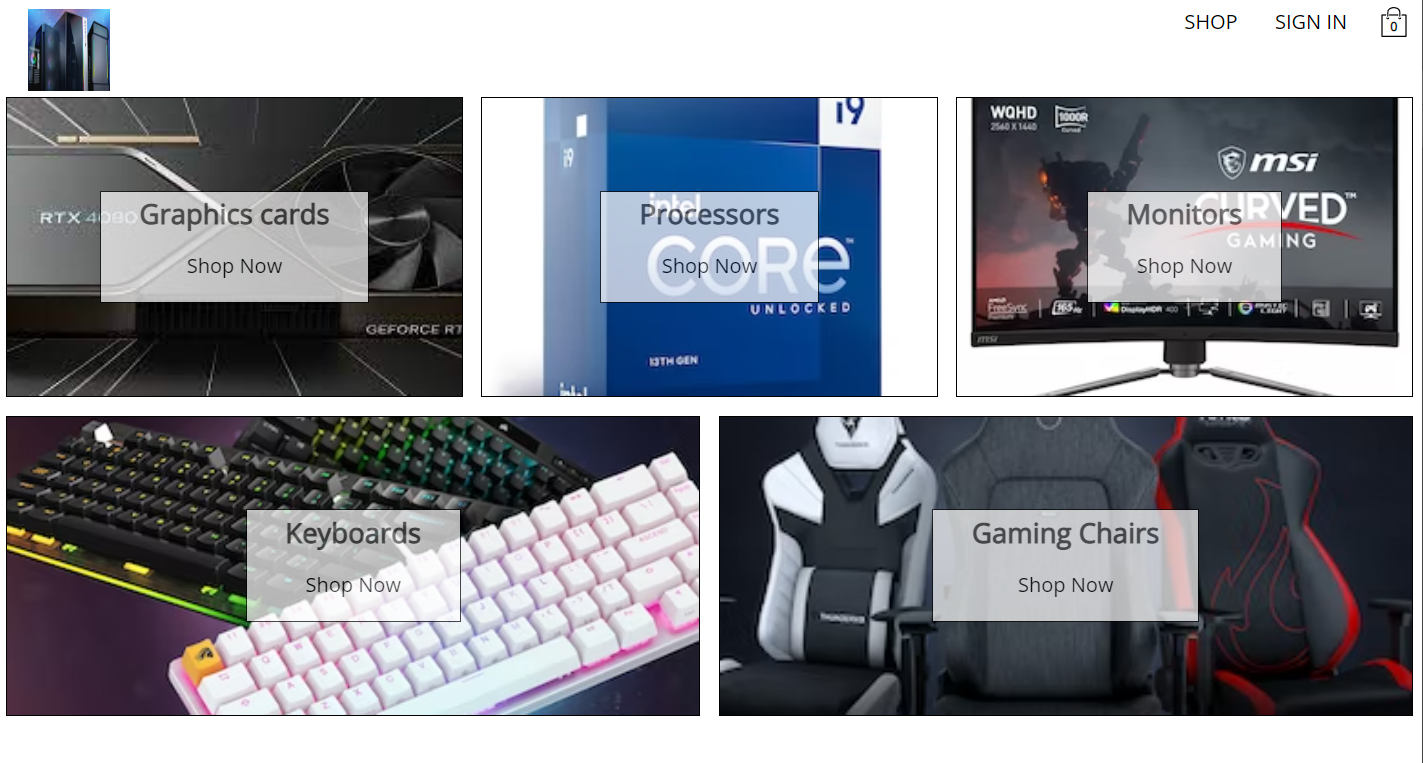
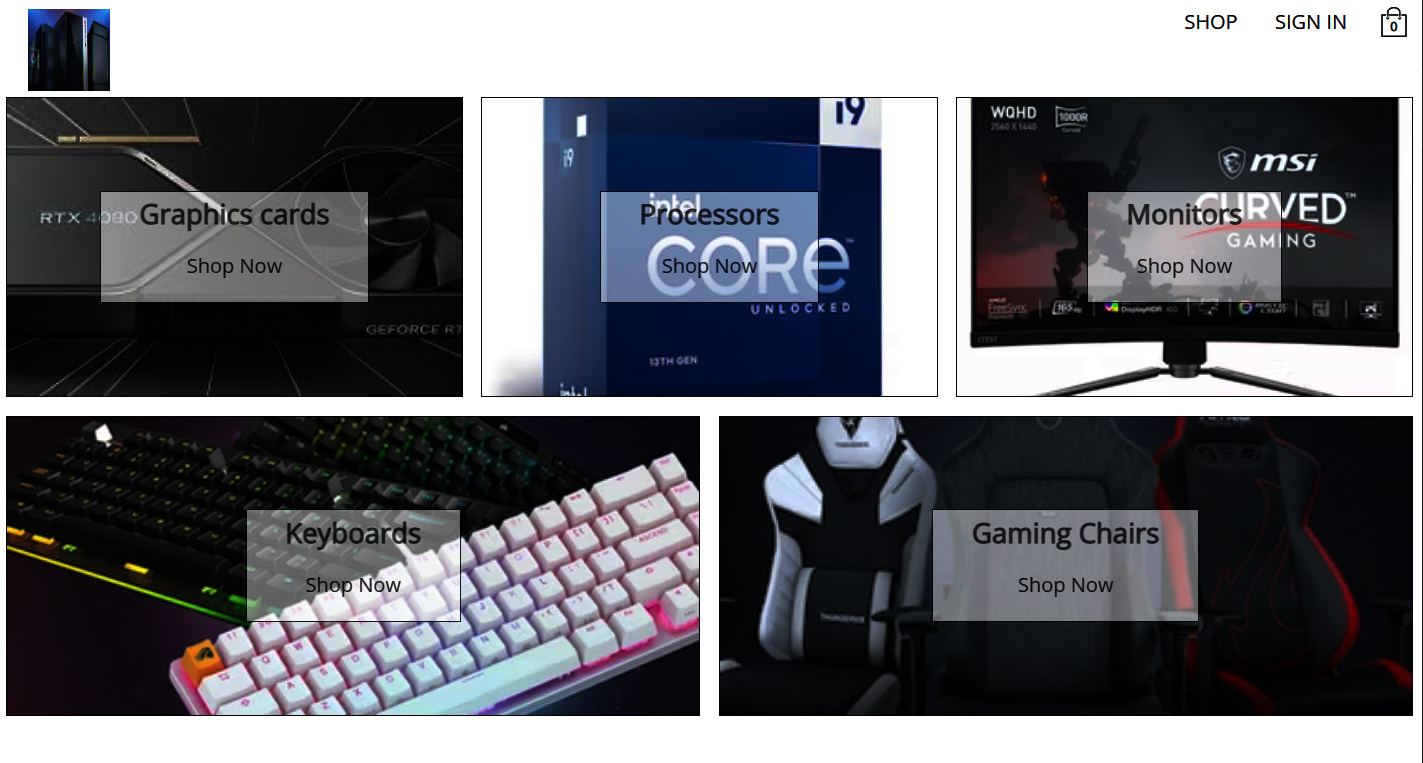
changesfinalv1

diff --git a/components/ProjectCardvtwo2.tsx b/components/ProjectCardvtwo2.tsx
@@ -8,12 +8,12 @@ const ProjectCardvtwo2 = () => {
                 src='/pcworld2.jpg' 
                 alt='/'
                 />
-                <div className='hidden group-hover:block absolute top-[33%] left-[77%] translate-x-[50%] translate-y-[50%]'>
+                <div className='hidden group-hover:block absolute bottom-[50%] right-[80%] translate-x-[50%] translate-y-[50%]'>
 
-                <h3 className='text-2xl text-white tracking-wider text-center'>Pc world</h3>
-                <p className='pb-4 pt-2 text-white text-center '>React Js</p>
+                <h3 className='text-3xl  tracking-wider text-center text-black'>Pc world</h3>
+                <p className='text-2xl  pb-4 pt-2 text-center text-white'>eCommerce website with register,sign in,check out and basket function. </p>
                 <Link href="https://pcworld.vercel.app/" target="blank">
-                    <p className='text-center py-3 rounded-lg bg-white text-gray-700 font-bold text-lg cursor-pointer'>More info</p>
+                    <p className='text-center py-3 rounded-lg bg-white text-gray-700 font-bold text-lg cursor-pointer text-black'>More info</p>
                 </Link>
                 </div>
             </div>

diff --git a/components/ProjectCardvtwo3.tsx b/components/ProjectCardvtwo3.tsx
@@ -8,12 +8,12 @@ const ProjectCardvtwo3 = () => {
                 src='/next2.jpg' 
                 alt='/'
                 />
-                <div className='hidden group-hover:block absolute top-[10%] left-[70%] translate-x-[50%] translate-y-[50%]'>
+                <div className='hidden group-hover:block absolute bottom-[50%] right-[60%] translate-x-[50%] translate-y-[50%]'>
 
-                <h3 className='text-2xl text-white tracking-wider text-center'>Netflix COMING SOON</h3>
-                <p className='pb-4 pt-2 text-white text-center '>Next Js</p>
+                <h3 className='text-4xl text-white tracking-wider text-center text-white'>Netflix COMING SOON</h3>
+                <p className='text-2xl pb-4 pt-2 text-white text-center text-white'>Next Js</p>
                 <Link href="" target="blank">
-                    <p className='text-center py-3 rounded-lg bg-white text-gray-700 font-bold text-lg cursor-pointer'>More info</p>
+                    <p className='text-center py-3 rounded-lg bg-white text-gray-700 font-bold text-lg cursor-pointer text-black'>More info</p>
                 </Link>
                 </div>
             </div>

diff --git a/components/ProjectCardvtwo.tsx b/components/ProjectCardvtwo.tsx
@@ -8,10 +8,10 @@ const ProjectCardvtwo = () => {
                 src='/bannerciti.jpg' 
                 alt='/'
                 />
-                <div className='hidden group-hover:block absolute top-[30%] left-[30%] translate-x-[50%] translate-y-[50%]'>
+                <div className='hidden group-hover:block absolute bottom-[50%] right-[47%] translate-x-[50%] translate-y-[50%]'>
 
-                <h3 className='text-2xl text-white tracking-wider text-center'>CitizenShare</h3>
-                <p className='pb-4 pt-2 text-white text-center '>REact Js</p>
+                <h3 className='text-4xl  tracking-wider text-center text-white'>CitizenShare</h3>
+                <p className='text-2xl pb-4 pt-2  text-center text-white'>A social media style picture sharing app,made for a computer game called star citizen,share,post,like,comment functionality,sign in with google!</p>
                 <Link href="https://citizenshare.vercel.app/" target="blank">
                     <p className='text-center py-3 rounded-lg bg-white text-gray-700 font-bold text-lg cursor-pointer'>More info</p>
                 </Link>

diff --git a/components/About.tsx b/components/About.tsx
@@ -37,7 +37,7 @@ export default function About({}:Props) {
             <div className="space-y-10 px-0 md:px-10">
 
                 <h4 className="text-4xl font-semibold">Here is a <span>little</span>  background</h4>
-                <p>Hi my  name is Krisztian a  London based self taught Front end developer, love building web applications, Js, React Js, Next js. Bring it on all day every day!
+                <p>Hi my  name is Krisztian a  London based self taught Front end developer, love building web applications, Js, React Js, Next js. Very much prefer Tailwind css.
                     </p>
             </div>
             </motion.div>

diff --git a/components/Hero.tsx b/components/Hero.tsx
@@ -5,7 +5,7 @@ import BackgroundCircles from './BackgroundCircles';
 type Props ={}
 export default function Hero({}:Props) {
      const [text,count]=useTypewriter({
-        words:["hi this is <Krisztian>","[36]","if","api doesnt fetch","else","I'm gonna make it fetch :D"],
+        words:["hi this is <Krisztian>","[36]","i","dont drink coffee","I'm a tea person"],
         loop:true,
         delaySpeed:2000,
 
